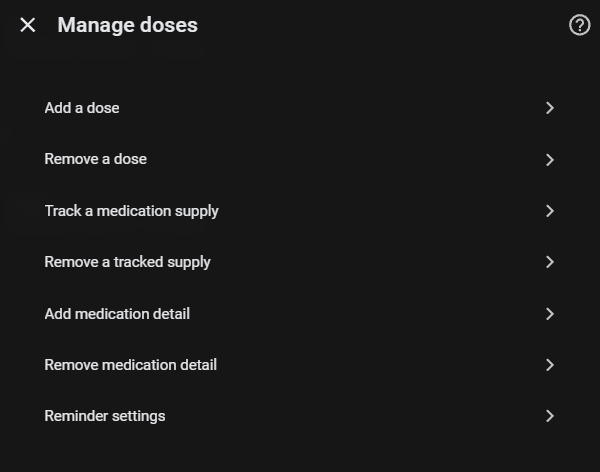
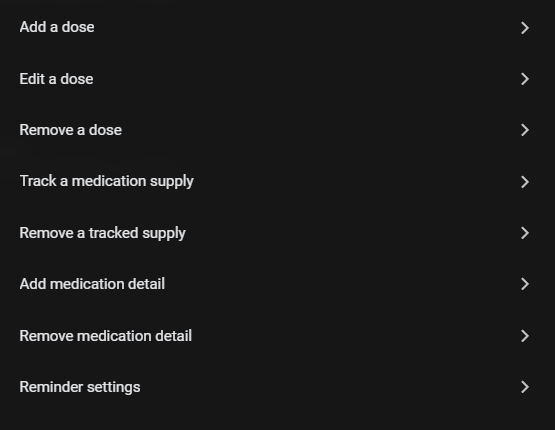
Polish the Configure menu labels (0.21.1)
Retitle "Manage doses" to "Manage medications" since the menu also covers
supplies, medication detail, and reminder settings, and shorten the supply
options to "Track a supply" and "Remove a supply". Refresh the menu
screenshot (now shows Edit a dose) and align its alt text.

diff --git a/CHANGELOG.md b/CHANGELOG.md
@@ -5,6 +5,10 @@ All notable changes to this project are documented in this file.
 The format is based on [Keep a Changelog](https://keepachangelog.com/en/1.1.0/),
 and this project adheres to [Semantic Versioning](https://semver.org/spec/v2.0.0.html).
 
+## [0.21.1] - 2026-06-17
+### Changed
+- Polished the Configure menu: retitled "Manage doses" to "Manage medications" (it also covers supplies, medication detail, and reminder settings), and shortened the supply options to "Track a supply" and "Remove a supply".
+
 ## [0.21.0] - 2026-06-16
 ### Added
 - Edit a dose in place. **Configure** has a new **Edit a dose** step: pick a dose, change anything on a form pre-filled with its current values, and save to replace it (no remove-and-re-add, no retyping). Editing only the schedule keeps the same entity and its history; changing the time or medications starts a fresh entity, and the old one is pruned so it does not linger as unavailable. (Requested by GitHub user weswark.)

diff --git a/README.md b/README.md
@@ -86,7 +86,7 @@ one automation.
 2. Enter the patient name (e.g. a pet or person), pick the **patient type** (Person / Dog / Cat / ..., which sets the icon), and the **notify target** (the person or group to remind). One patient per entry; add the integration again for more patients.
 3. On the entry, click **Configure** to **Add a dose** (pick a time, type the medications, and choose the **schedule**: days of the week - all days = daily - or every N days, an on/off cycle, specific days of the month, or as-needed/PRN). Repeat for each dose. **Edit a dose**, **Remove a dose**, **Add medication detail**, or open **Reminder settings** (type, notify target, time format, reset time, nag window/interval) there too.
 
-![Manage doses menu](https://raw.githubusercontent.com/magikh0e/ha-medication-reminder/main/images/managed-doses.png)
+![Manage medications menu](https://raw.githubusercontent.com/magikh0e/ha-medication-reminder/main/images/managed-doses.png)
 
 ![Add a dose form](https://raw.githubusercontent.com/magikh0e/ha-medication-reminder/main/images/add-a-dose.png)
 